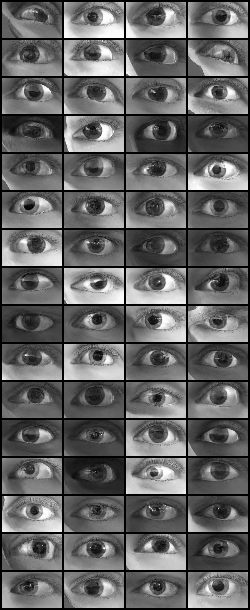
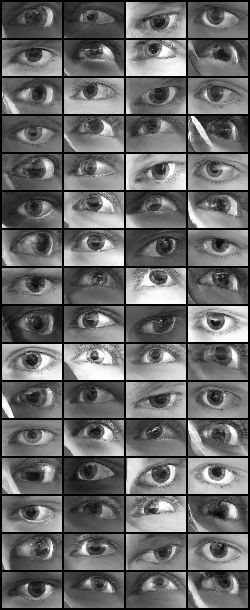
syn

diff --git a/sample_condition.py b/sample_condition.py
@@ -6,6 +6,7 @@ from gaze_pytorch.utils_old import rad2deg, angle_err
 from dataset import rgb2gray, torch2cv2, H5_EYE_dataset
 import os
 import models
+import h5py
 
 import torch
 from torch import nn
@@ -20,14 +21,15 @@ from glob import glob
 
         
 @torch.no_grad()
-def sample_model(model, device, batch, size, temperature, condition=None):
+def sample_model(model, device, batch, size, temperature, condition=None, cond_headpose_gaze=None):
     model.eval()
     row = torch.zeros(batch, *size, dtype=torch.int64).to(device)
     cache = {}
 
     for i in tqdm(range(size[0])):
+    # for i in range(size[0]):
         for j in range(size[1]):
-            out, cache = model(row[:, : i + 1, :], condition=condition, cache=cache) # 采样时，从第一行（第一次值都为0）开始输入，而后输入目标像素之前所有生成过的所有像素。
+            out, cache = model(row[:, : i + 1, :], condition=condition, cond_headpose_gaze=cond_headpose_gaze, cache=cache) # 采样时，从第一行（第一次值都为0）开始输入，而后输入目标像素之前所有生成过的所有像素。
             prob = torch.softmax(out[:, :, i, j] / temperature, 1)
             sample = torch.multinomial(prob, 1).squeeze(-1)
             row[:, i, j] = sample
@@ -35,14 +37,22 @@ def sample_model(model, device, batch, size, temperature, condition=None):
 
 @torch.no_grad()
 def sample_by_dataset(test_loader, vqvae_model, pixelsnail_top, pixelsnail_bottom, gaze_predictor):
-    loader = tqdm(test_loader)
+    # loader = tqdm(test_loader)
+    loader = test_loader
     vqvae_model.eval()
     pixelsnail_top.eval()
     pixelsnail_bottom.eval()
     gaze_predictor.eval()
-    err_sum = 0
+    err_sum_a = 0
+    err_sum_b = 0
+    err_sum_c = 0
     num = 0
+    recon_imgs = []
+    recon_gazes = []
+    pred_gazes = []
+    headposes = []
     for i, (img, label, headpose) in enumerate(loader):
+        print(f"{i} / {len(loader)}")
         img = img.cuda()
         num += img.shape[0]
         label = label.cuda()
@@ -50,15 +60,26 @@ def sample_by_dataset(test_loader, vqvae_model, pixelsnail_top, pixelsnail_botto
         pred_gaze = gaze_predictor(img, headpose)
         cond_gazepose = torch.cat([pred_gaze, headpose], 1)
         top_index = sample_model(pixelsnail_top, device, img.shape[0], [9, 15], args.temp, cond_headpose_gaze=cond_gazepose)
-        bottom_index = sample_model(pixelsnail_bottom, device, args.batch, [18, 30], args.temp, condition=top_index, cond_headpose_gaze=cond_gazepose)
+        bottom_index = sample_model(pixelsnail_bottom, device, img.shape[0], [18, 30], args.temp, condition=top_index, cond_headpose_gaze=cond_gazepose)
         decoded_sample = model_vqvae.decode_code(top_index, bottom_index)
         decoded_sample = decoded_sample.clamp(-1, 1)
+        # save_image(decoded_sample, filename, normalize=True, range=(-1, 1), nrow=4)
         recon_gaze = gaze_predictor(torch2cv2(decoded_sample).cuda(), headpose)
+        recon_imgs.append(torch2cv2(decoded_sample, normalize=False))
+        # recon_gazes.append(recon_gaze.cpu().numpy())
+        pred_gazes.append(pred_gaze.cpu().numpy())
+        headposes.append(headpose.cpu().numpy())
+
         a = rad2deg(angle_err(recon_gaze, pred_gaze))
-        print(a.mean())
+        b = rad2deg(angle_err(recon_gaze, pred_gaze))
+        print('recon pre err: ', a.mean())
         a = a.sum()
-        err_sum += a
-    print(err_sum / num)
+        err_sum_a += a
+    with h5py.File("/disks/disk2/fjl/dataset/mpii_recon.h5", 'w') as f:
+        f['left_gaze'] = np.vstack(pred_gazes)
+        f['left_eye_img'] = np.vstack(recon_imgs)
+        f['left_headpose'] = np.vstack(headposes)
+    print('recon pre err: ', err_sum_a / num)
 
 def load_model(model, checkpoint, device):
     ckpt = torch.load(checkpoint)
@@ -118,10 +139,11 @@ if __name__ == '__main__':
 
     parser = argparse.ArgumentParser(prefix_chars='@')
     parser.add_argument('@@batch', type=int, default=64)
+    # parser.add_argument('@@vqvae', type=str, default="/disks/disk2/fjl/checkpoint/vq-vae_unity_unityEyes_dis_from_MPII/vqvae_best.pt")
     parser.add_argument('@@vqvae', type=str, default="/disks/disk2/fjl/checkpoint/vq-vae_unity_unityEyes_dis_from_MPII/vqvae_best.pt")
-    parser.add_argument('@@top', type=str, default="/disks/disk2/fjl/checkpoint/vq-vae/pixelsnail/unity_mpii_condition_pos/pixelsnail_top_eye_050.pt")
-    parser.add_argument('@@bottom', type=str, default="/disks/disk2/fjl/checkpoint/vq-vae/pixelsnail/unity_mpii/pixelsnail_bottom_eye_035.pt")
-    parser.add_argument('@@predictor', type=str, default="/disks/disk2/fjl/checkpoint/gaze/cross_single_eye/gazenet_0_0.tar")
+    parser.add_argument('@@top', type=str, default="/disks/disk2/fjl/checkpoint/vq-vae/pixelsnail/unity_mpii_condition_all/pixelsnail_top_eye_006_20w.pt")
+    parser.add_argument('@@bottom', type=str, default="/disks/disk2/fjl/checkpoint/vq-vae/pixelsnail/unity_mpii_condition_all/pixelsnail_bottom_eye_008.pt")
+    parser.add_argument('@@predictor', type=str, default="/disks/disk2/fjl/checkpoint/gaze/cross_single_eye/gazenet_3_1.tar")
     parser.add_argument('@@temp', type=float, default=1.0)
     parser.add_argument('@@gpu', type=str, default='1')
     parser.add_argument('@@gaze', type=str) # gaze(pitch, yaw)
@@ -156,7 +178,6 @@ if __name__ == '__main__':
     model_top = load_model('pixelsnail_top', args.top, device)
     model_bottom = load_model('pixelsnail_bottom', args.bottom, device)
     model_predictor = torch.load(args.predictor)
-    # test_dataset = eyediap_dataset(glob("/disks/disk2/fjl/dataset/MPII_H5_single_evaluation/P00.h5"))
     test_dataset = H5_EYE_dataset(glob("/disks/disk2/fjl/dataset/MPII_H5_single_evaluation/P*.h5"))
     test_loader = torch.utils.data.DataLoader(test_dataset, shuffle=False, batch_size=args.batch)
     sample_by_dataset(test_loader, model_vqvae, model_top, model_bottom, model_predictor)

diff --git a/dataset.py b/dataset.py
@@ -24,7 +24,7 @@ def identity(x):
 def denormalize(x):
     return (x * 0.5 + 0.5) * 255
 
-def torch2cv2(x):
+def torch2cv2(x, normalize=True):
     x = denormalize(x)
     x = x.cpu().numpy().astype(np.uint8)
     gray_list = []
@@ -32,10 +32,15 @@ def torch2cv2(x):
         rgb = np.transpose(i, [1,2,0])
         gray = cv2.cvtColor(rgb, cv2.COLOR_RGB2GRAY)
         gray_list.append(gray[np.newaxis, np.newaxis, :])
-    gray_list = np.vstack(gray_list).astype(np.float32)
-    a = torch.from_numpy(cv2Image(gray_list))
-    save_image(a, "./test.png", normalize=True, range=(-1, 1), nrow=4)
-    return a
+    gray_list = np.vstack(gray_list)
+    if normalize:
+        a = torch.from_numpy(cv2Image(gray_list).astype(np.float32))
+        return a
+    else:
+        a = np.squeeze(gray_list, axis=1)
+        print(a.shape)
+        return a
+    # save_image(a, "./test.png", normalize=True, range=(-1, 1), nrow=4)
     
 def get_gaze_pose(mode):
     gaze = np.zeros([2, 4, 4])

diff --git a/pixelsnail.py b/pixelsnail.py
@@ -464,10 +464,10 @@ class PixelSNAIL(nn.Module):
                         condition = torch.cat([cond_h_g, condition], 1)
                 else:
                     condition = cond_h_g
+                condition = self.cond_resnet(condition)
                 cache['condition'] = condition.detach().clone()
                 condition = condition[:, :, :height, :]
 
-                condition = self.cond_resnet(condition)
 
         for block in self.blocks:
             out = block(out, background, condition=condition)
